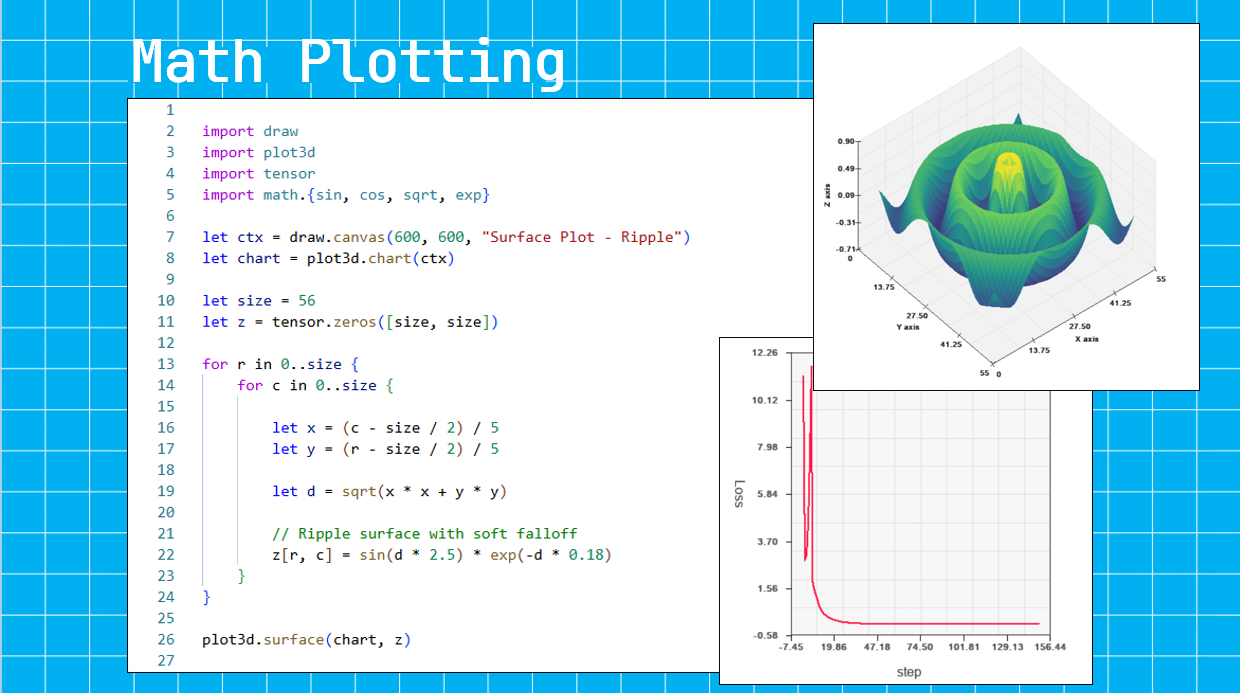
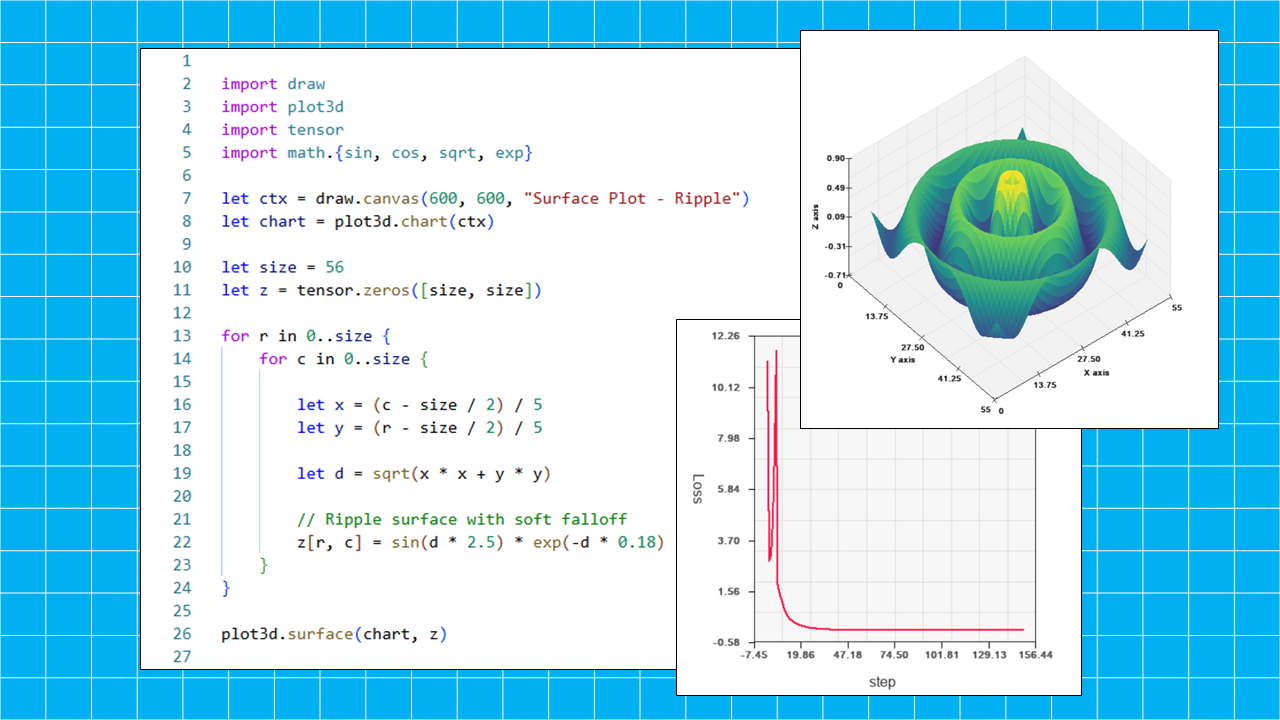
ref: change some images and fix the docs for the plot3d module

diff --git a/docs/8. Modules/8.4 Built-in Modules/plot3d.md b/docs/8. Modules/8.4 Built-in Modules/plot3d.md
@@ -4,7 +4,15 @@ The `plot3d` module provides Pilang's native 3D visualization layer. It renders
 surfaces, meshes, wireframes, and 3D scatter data into a `draw` canvas using a
 stable orthographic camera.
 
-![Pilang 3D surface plot](surface.png)
+
+<div align ="center">
+  <img src="surface.png" width = 400/>
+</div>
+
+<br/>
+<br/>
+<br/>
+
 
 ```swift
 import draw
@@ -43,7 +51,14 @@ showing the chart.
 Adds a filled 3D surface from a 2D tensor. The tensor row and column indexes form
 the x/y grid and each tensor value is used as z height.
 
-![Pilang 3D surface](surface.png)
+
+<div align ="center">
+  <img src="surface.png" width = 400/>
+</div>
+
+<br/>
+<br/>
+<br/>
 
 ```swift
 plot3d.surface(chart, z)
@@ -61,7 +76,13 @@ plot3d.mesh(chart, z)
 
 Adds a wireframe plot from a 2D tensor.
 
-![Pilang 3D wireframe](wireframe.png)
+<div align ="center">
+  <img src="wireframe.png" width = 400/>
+</div>
+
+<br/>
+<br/>
+<br/>
 
 ```swift
 plot3d.wireframe(chart, z)
@@ -71,7 +92,15 @@ plot3d.wireframe(chart, z)
 
 Adds 3D points from three numeric lists.
 
-![Pilang 3D scatter](scatter3d.png)
+
+<div align ="center">
+  <img src="scatter3d.png" width = 400/>
+</div>
+
+<br/>
+<br/>
+<br/>
+
 
 ```swift
 plot3d.scatter(chart, xs, ys, zs)
